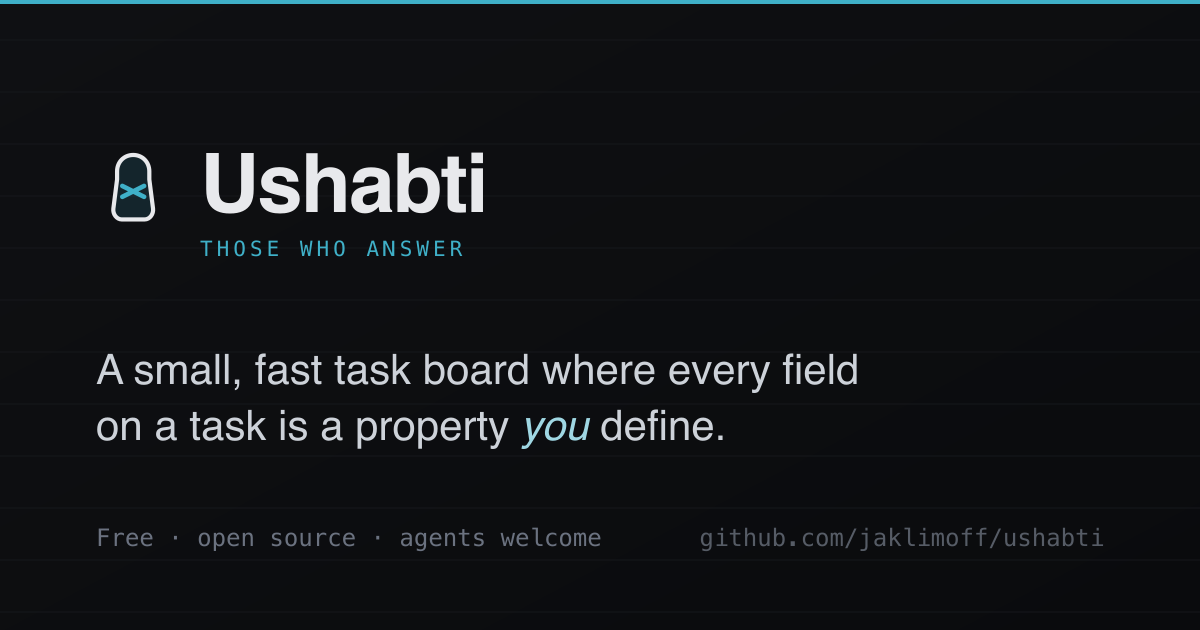
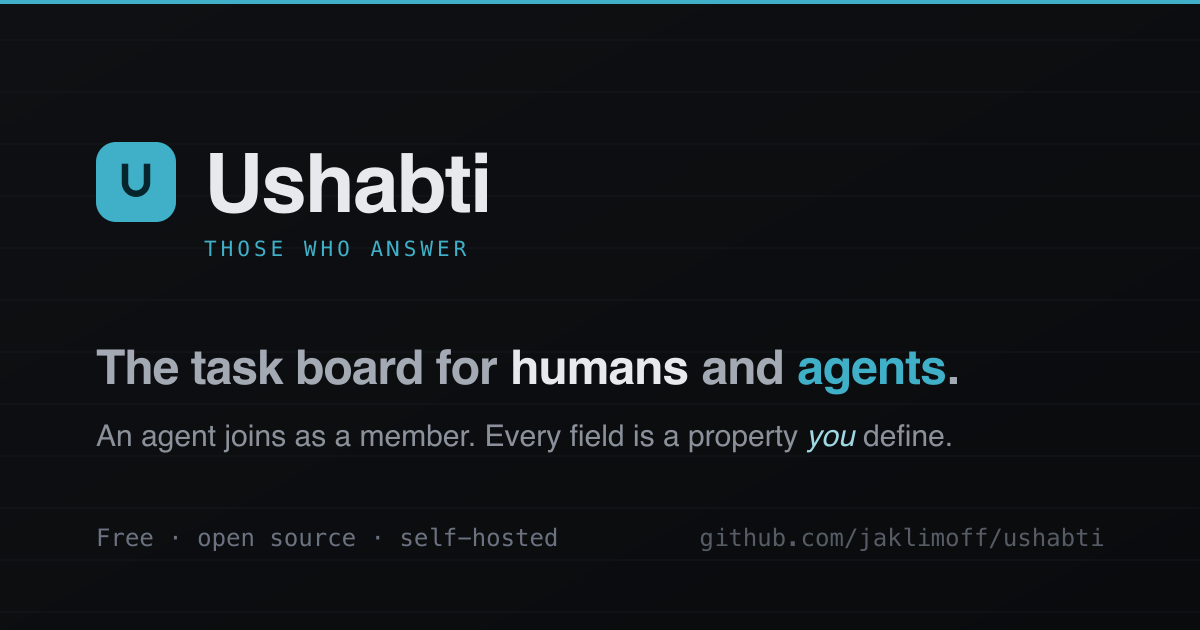
The docs, the site and the link picture wear the teal U

diff --git a/CHANGELOG.md b/CHANGELOG.md
@@ -26,6 +26,13 @@ usual promise applies: a patch fixes, a minor adds, a major breaks.
   description and the box that edits a comment draw their words at 16px on a
   touch screen, so Safari stays where it was.
 
+### Changed
+
+- **The docs, the site and a link to them wear the teal U.** The docs logo,
+  the favicon and the picture a pasted link shows used to draw an older mark;
+  they now draw the U the app has. The app also has an icon for a phone's home
+  screen.
+
 ## 0.29.0 — 2026-10-18
 
 ### Changed
